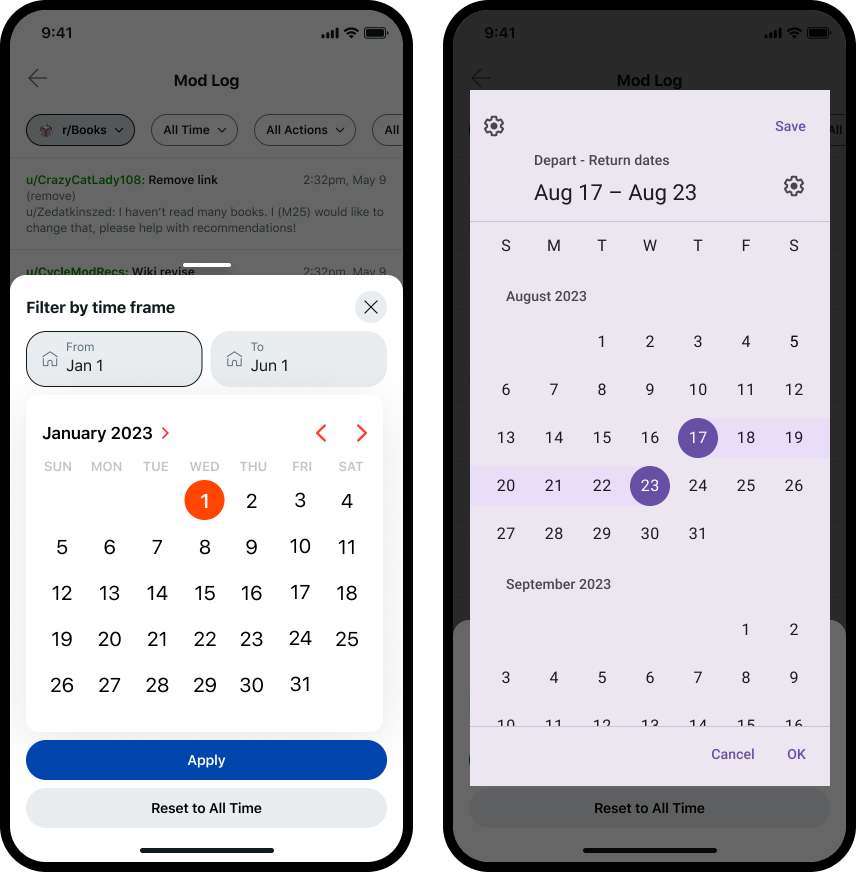
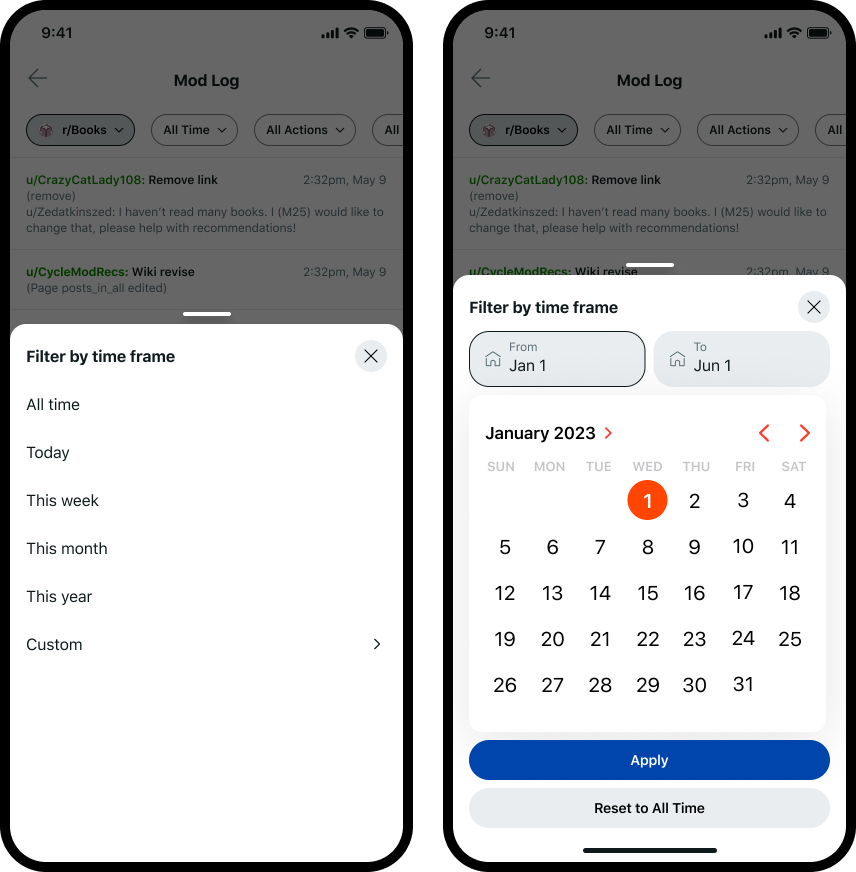
finished mod log

diff --git a/reddit.html b/reddit.html
@@ -218,9 +218,9 @@
         <p>On desktop or web, a mod log contains filters by time frame, moderator, actions, username, and post url. On mobile, there are only two filters – moderator and actions.</p>
         <p>My work <span class="bold reddit-txt">completes the missing 3 filters on mobile</span> (time frame, username, and post url), providing the same functionality available on desktop (and 3rd party platforms).</p>
       </div>
-      <div class="col-10 col-lg-6 d-flex flex-column justify-content-center text-center">
+      <div class="col-10 offset-1 offset-lg-0 col-lg-6 d-flex flex-column justify-content-center text-center">
         <img src="assets/img/reddit/mlog-problem.png" width="100%">
-        <p class="caption mt-4">fig. mod log on mobile vs desktop showing parity gap</p>
+        <p class="caption mt-4">fig. mod log on mobile vs desktop, highlighting the parity gap</p>
       </div>
     </div>
 
@@ -248,35 +248,51 @@
         <img src="assets/img/reddit/mind-map.png" width="100%">
         <p class="caption mt-4">fig. mind map of mod ecosystem</p>
       </div>
-       <div class="col-10 col-lg-6 offset-1 pt-5">
+      <div class="col-10 offset-1 pt-5">
         <p>Reddit has it's own design system, Reddit Product Language (RPL). Though I was familiar with Figma and its component functionality, RPL was far more robust in design practices and principles that I had used before so <span class="reddit-txt bold">I spent time reading documentation, testing, and understanding how to best use Reddit's design system.</span></p>
+      </div>
+
+      <div class="row" style="height: 2vh"></div>
+
+      <div class="col-10 offset-1 pt-5">
         <div class="row" style="height: 2vh"></div>
         <p class="heading bold">considering different methods of input</p>
         <p>While filtering by different categories seems trivial, user input can be prompted in various forms leading to many possible design opportunities.</p>
-        <p>For time frame – I worked with the design systems team to create a RPL date picker pattern using native iOS and Android components. This did not exist yet since there was no previous use for it. I also realized I was able to improve the existing experience by adding set time frames in addition to custom dates. Given that mods want quick and easy actions, I decided to prioritize set time frames in the flow before custom time frames.</p>
-        <p>For username – it wasn't clear to me whether or not the "u/" needed to be included in front of the input on desktop. Thus, I added a greyed out "u/" at the front of the input box. With the design intention, if a user inputed the "u/" themselves, it would be matching to the existing label to minimize user error and increase system transparency.</p>
-        <p>For post URL – the expected user journey is to copy and paste a post link rather than the post ID (which is the input requirement for desktop). In this case, the design is simple with a post URL label.</p>
       </div>
       <div class="col-10 col-lg-6 offset-1 pt-5">
-        <p>Reddit has it's own design system, Reddit Product Language (RPL). Though I was familiar with Figma and its component functionality, RPL was far more robust in design practices and principles that I had used before so <span class="reddit-txt bold">I spent time reading documentation, testing, and understanding how to best use Reddit's design system.</span></p>
-        <div class="row" style="height: 2vh"></div>
-        <p class="heading bold">considering different methods of input</p>
-        <p>While filtering by different categories seems trivial, user input can be prompted in various forms leading to many possible design opportunities.</p>
         <p>For time frame – I worked with the design systems team to create a RPL date picker pattern using native iOS and Android components. This did not exist yet since there was no previous use for it. I also realized I was able to improve the existing experience by adding set time frames in addition to custom dates. Given that mods want quick and easy actions, I decided to prioritize set time frames in the flow before custom time frames.</p>
-        <p>For username – it wasn't clear to me whether or not the "u/" needed to be included in front of the input on desktop. Thus, I added a greyed out "u/" at the front of the input box. With the design intention, if a user inputed the "u/" themselves, it would be matching to the existing label to minimize user error and increase system transparency.</p>
-        <p>For post URL – the expected user journey is to copy and paste a post link rather than the post ID (which is the input requirement for desktop). In this case, the design is simple with a post URL label.</p>
       </div>
+      <div class="col-10 col-lg-4 offset-lg-0 offset-1 pt-5 text-center">
+        <img src="assets/img/reddit/date-picker.png" width="100%">
+        <p class="caption mt-4">fig. date picker for iOS (left) and Android (right)</p>
+      </div>
+      <div class="col-10 col-lg-6 offset-1 pt-5">
+        <p>For username – I wanted to use a search pattern to minimize user input error but there was pushback to make this a P1 by product. Thus, P0 opted for a simple exact match input – same as desktop. It wasn't clear to me whether or not the "u/" needed to be included in front of the input on desktop. Thus, I added a greyed out "u/" at the front of the input box. With the design intention, if a user inputed the "u/" themselves, it would be matching to the existing label to increase system transparency and feedforward.</p>
+      </div>
+      <div class="col-10 col-lg-4 offset-lg-0 offset-1 pt-5 text-center">
+        <img src="assets/img/reddit/user-filter.png" width="100%">
+        <p class="caption mt-4">fig. P0 exact input (left) and P1 user search (right)</p>
+      </div>
+      <div class="col-10 col-lg-6 offset-1 pt-5">
+        <p>For post URL – the expected user journey is to copy and paste a post link rather than typing in just the post ID (which is the input requirement for desktop). Entering the post ID is much more difficult given the limitations of mobile and the ability to access the post ID as opposed to copying the post link. In this case, the design is simple with a "post URL" label indicating a link is needed. One step further would be to recognize that a post link has been copied and to parse the ID from the URL to show up in the keyboard such that the user doesn't need to active the paste, but we deemed this to be low priority and high effort for this milestone.</p>
+      </div>
+      <div class="col-10 col-lg-4 offset-lg-0 offset-1 pt-5 text-center">
+        <img src="assets/img/reddit/post-url.png" width="100%">
+        <p class="caption mt-4">fig. pasting the post URL to filter by</p>
+      </div>
+
     </div>
+
 
     <div class="row" style="height: 5vh"></div>
 
     <div class="row">
-      <div class="col-10 col-lg-8 offset-1">
-        <h4 class="reddit-txt bold">3 | prototypes</h4>
-        <p class="heading bold">prototying the filters</p>
-        <p>observing the desktop ui</p>
-        <p>and the existing mobile filters</p>
-        </ul>
+      <div class="col-10 col-lg-10 offset-1">
+        <h4 class="reddit-txt bold">3 | prototype</h4>
+        <p class="heading bold">full flow of all 3 filters</p>
+        <div class="text-center">
+          <img src="assets/img/reddit/modlog-full.gif" style="padding: 10px; background-color: black; border-radius: 33px;" width="300vh">
+        </div>
       </div>
     </div>
 
@@ -290,7 +306,6 @@
         <p class="heading bold">personal</p>
         <p>Often creating my own design systems, this was my first time learning and utilizing a robust design system documentation with Figma components. In order for such a large product to remain consistent and cohesive, the design system needs to be clear, direct, and standardized with information design. I gained insight into what is necessary to accomplish such and how it affects creating prototypes and design opportunties.</p>
         <P>With this first project, building domain knowledge was the most important for making informed design decisions. It was valuable to me as someone who has never used mod tools, to be able to read discussions by mods about their issues and watch recorded contextual inquiries with mods of the largest communities.</P>
-        </ul>
       </div>
     </div>
 
